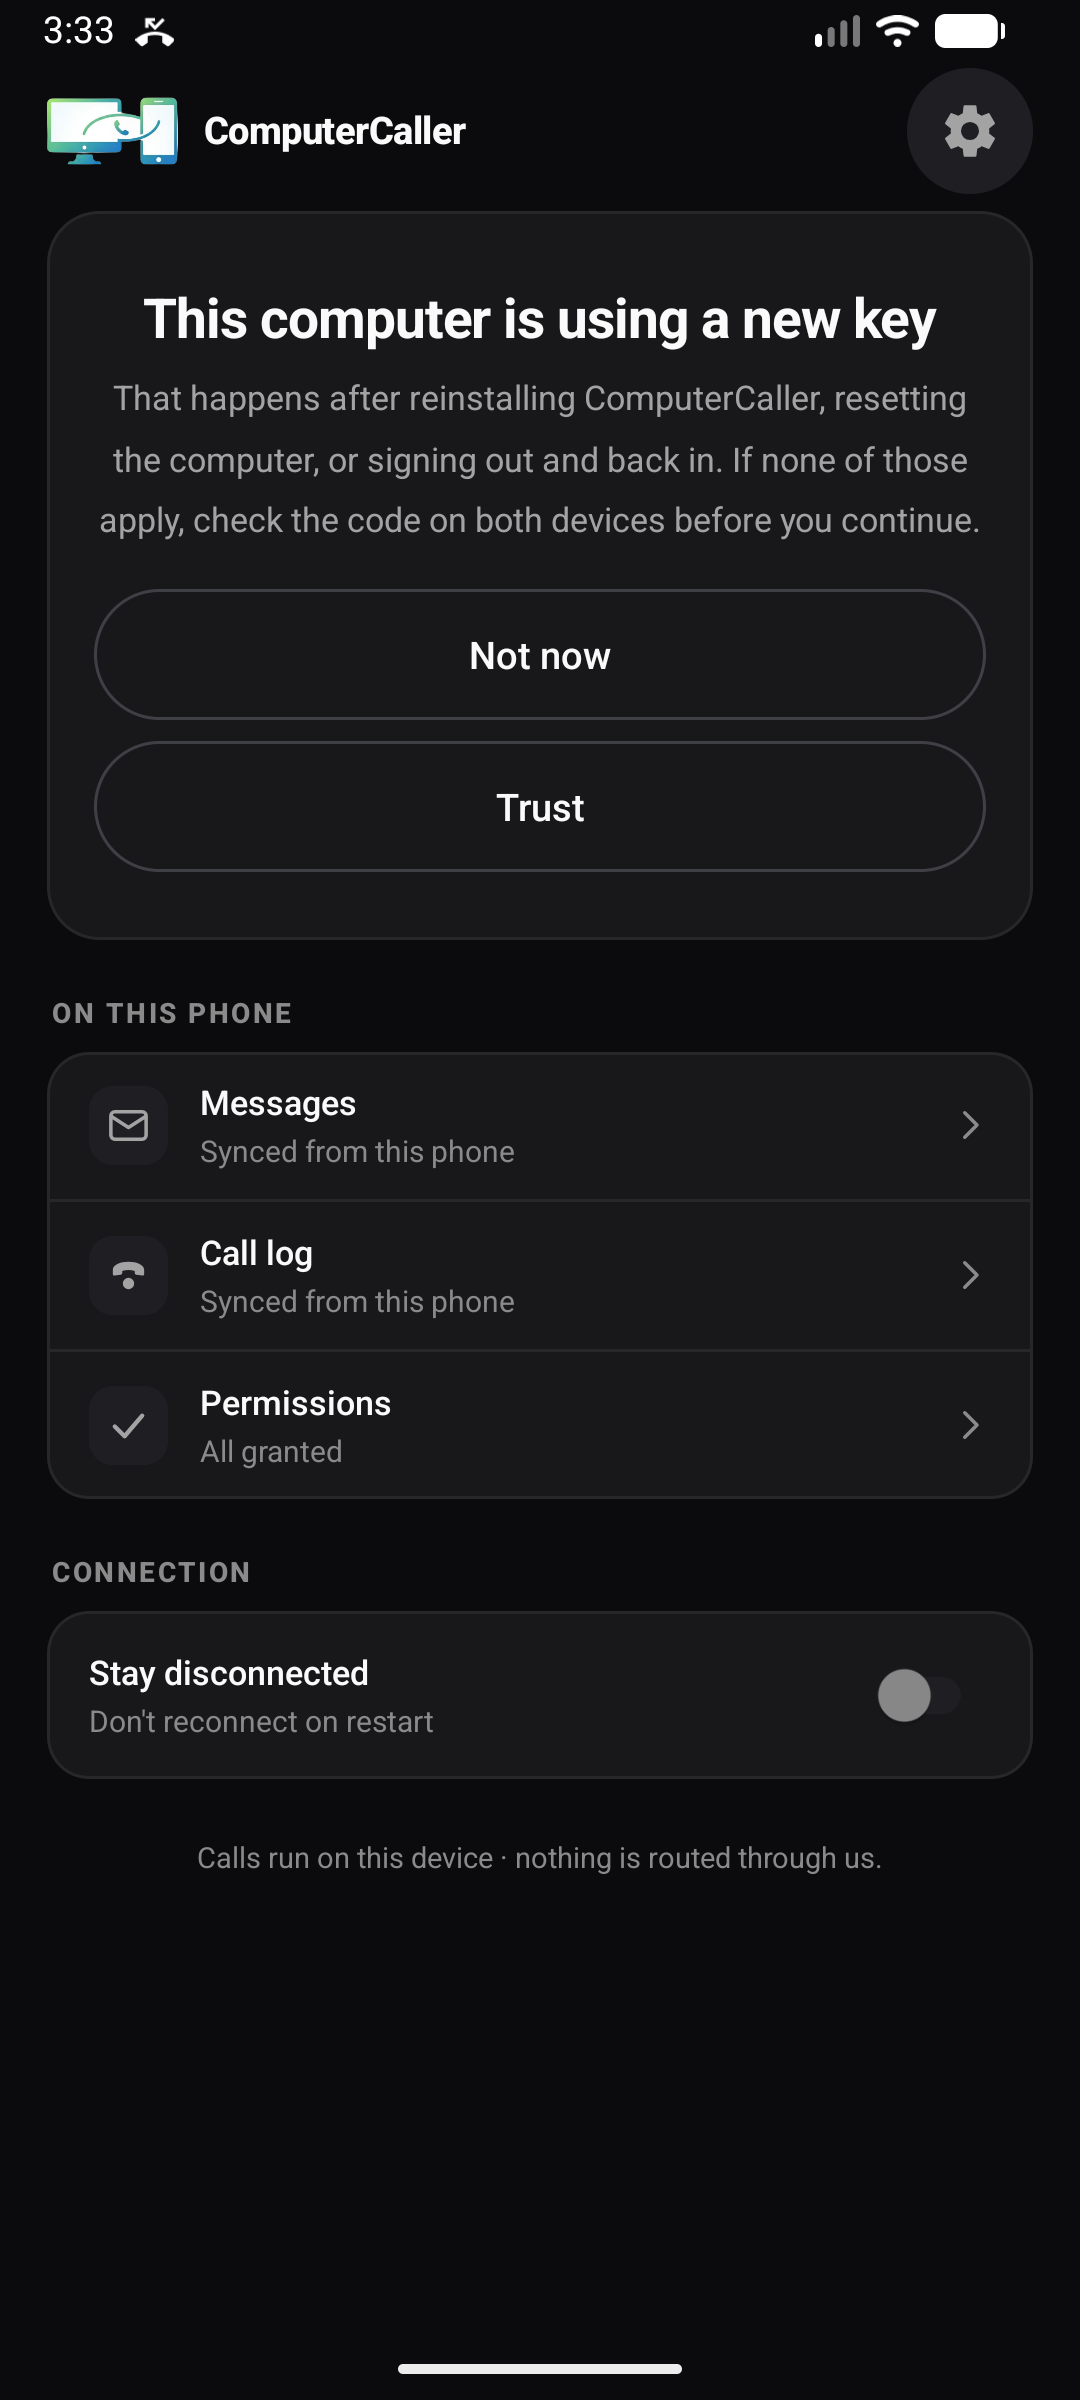
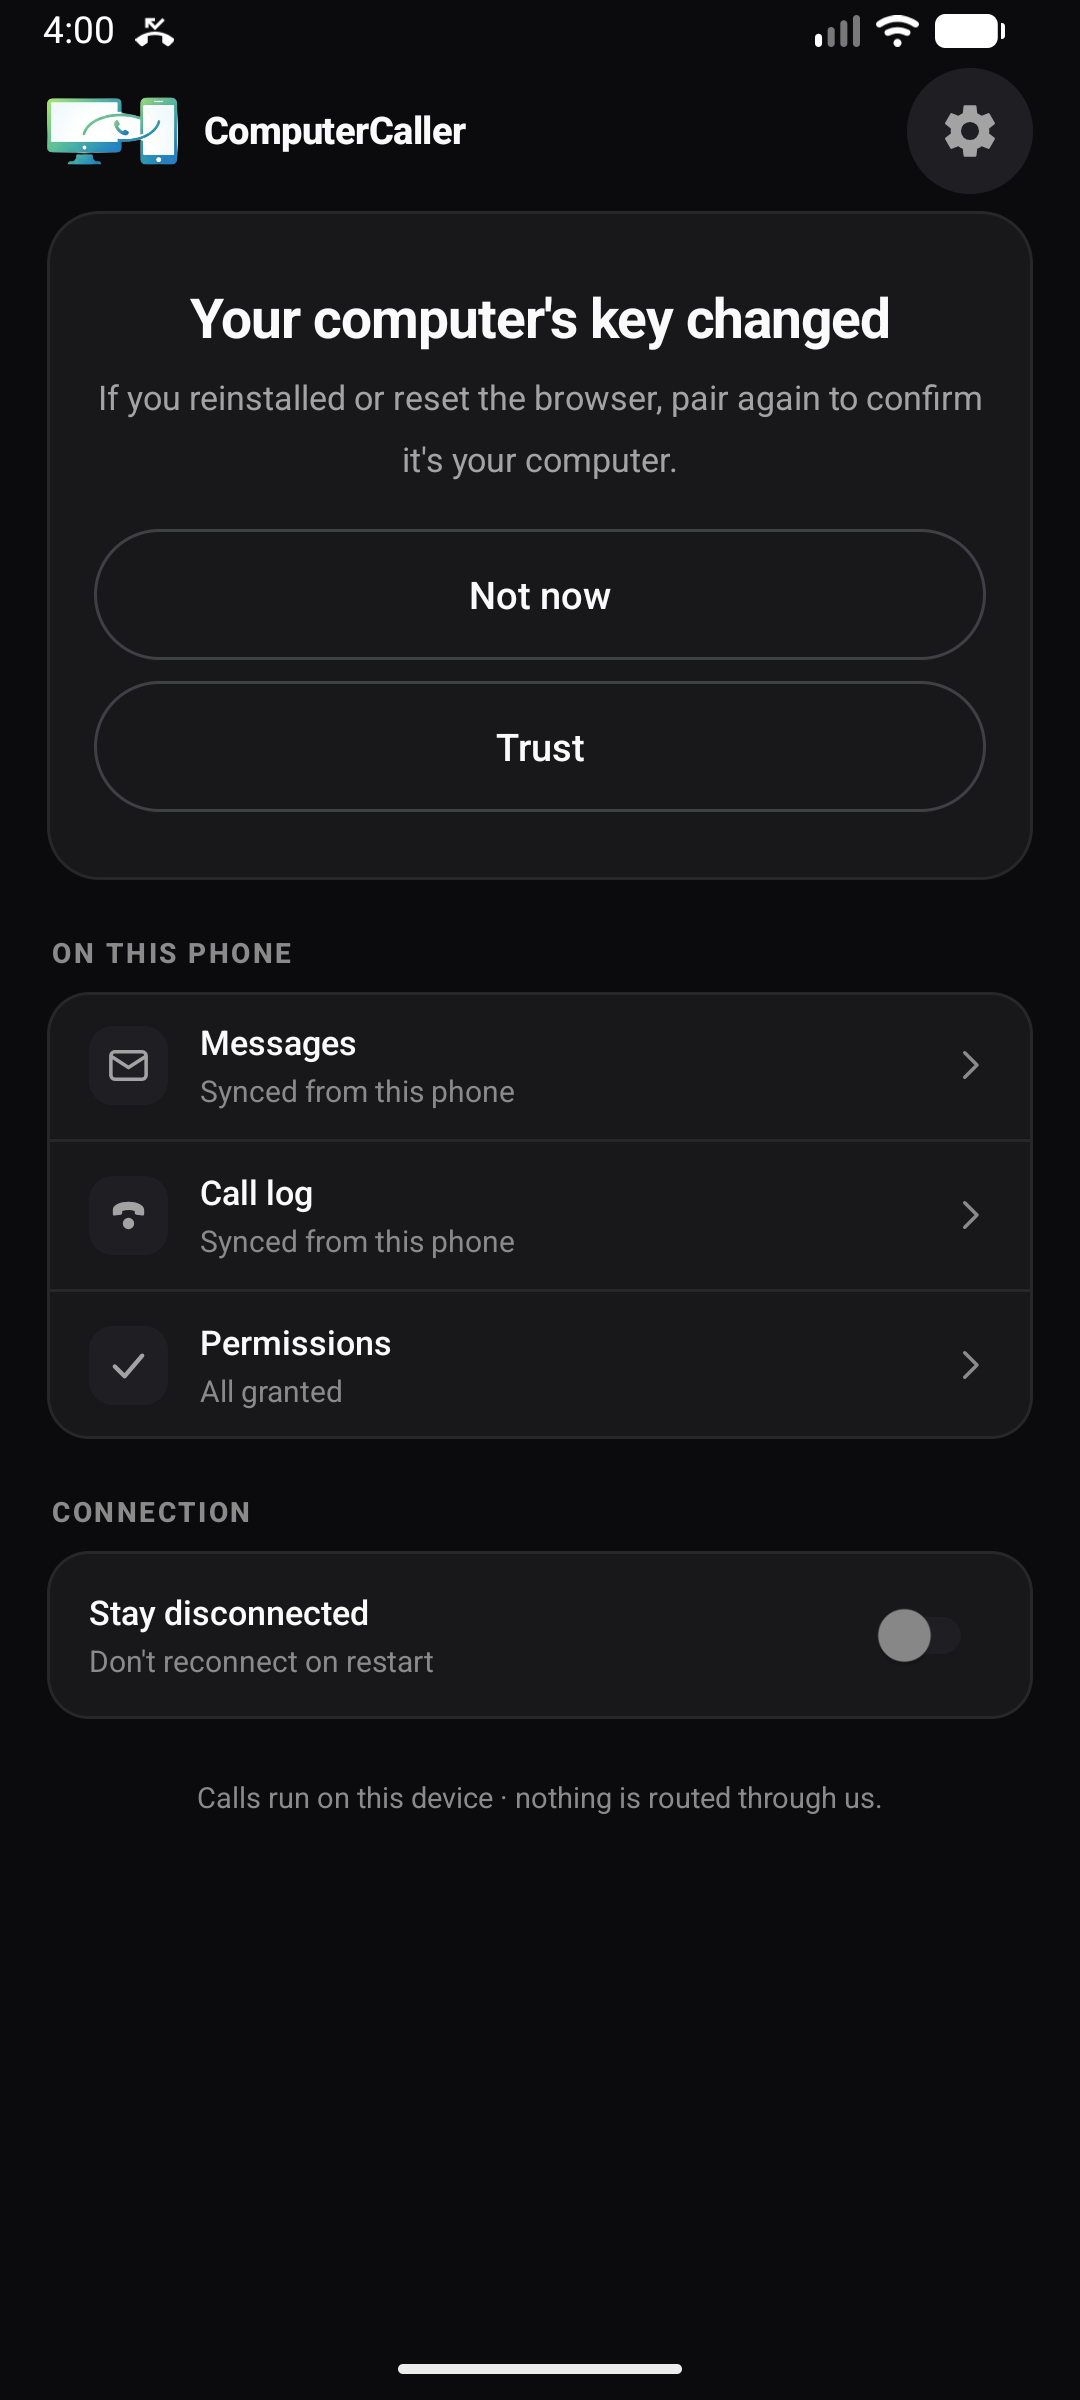
[E2E-P5b] d3 — R-AH: the SAS is FIVE digits, and the frozen P5a copy
Ken's correction, and the brief was wrong rather than ambiguous. E2E-SPEC
§13.3 is FROZEN at "digits = be32(...) mod 100000, zero-padded to 5" — five.
The brief said six, this UI believed the brief, and nothing caught it: every
crypto test asserts E2eSas.digits() against the frozen vectors, and none of
them looks at what the screen shows. A UI that restates a frozen number is a
second home for that number, and the display is precisely where being wrong
is invisible to the tests that would otherwise catch it.

So the count now has ONE home. E2eSas.DIGIT_LENGTH (already 5, already
correct) loses its `private` and E2eSasContract.SAS_DIGIT_COUNT is assigned
from it. That visibility change is the single line I touched outside the UI
layer, and it exists so this class of bug cannot recur. Grouping follows:
"41290" -> "412 90".

Frozen copy parity with P5a-UI:
  * TOFU title/body are now P5a's sentence pointed the other way — "Your
    computer's key changed" / "If you reinstalled or reset the browser, pair
    again to confirm it's your computer." M-C still holds and is still
    asserted: it names benign causes, asserts none, and the remedy it offers
    is to PAIR AGAIN and confirm rather than to click past the warning.
  * the SAS body says "five-digit".

THREE state words, not two. The earlier cut collapsed verified and unverified
into one "Encrypted" on the grounds the distinction was not actionable in the
[…]

diff --git a/dnkdialer-android/app/src/test/java/com/dnkdialer/companion/E2eCopyTableTest.kt b/dnkdialer-android/app/src/test/java/com/dnkdialer/companion/E2eCopyTableTest.kt
@@ -53,8 +53,10 @@ class E2eCopyTableTest {
         "e2e_key_change_trust",
         "e2e_key_change_not_now",
         "status_connected_encrypted",
+        "status_connected_encrypted_unverified",
         "status_connected_unencrypted",
         "notif_ongoing_connected_encrypted",
+        "notif_ongoing_connected_encrypted_unverified",
     )
 
     @Test
@@ -109,12 +111,22 @@ class E2eCopyTableTest {
         // phone?". Same question, other direction.
         assertEquals("Same code on your computer?", prompt)
         assertEquals("Matches", strings.getValue("e2e_sas_matches"))
-        assertEquals("Doesn't match", strings.getValue("e2e_sas_no_match").replace("\\'", "'"))
+        assertEquals("Doesn't match", strings.getValue("e2e_sas_no_match"))
     }
 
     @Test
-    fun the_key_change_warning_lists_benign_causes_without_asserting_one() {
+    fun the_key_change_warning_is_the_frozen_copy_and_asserts_no_cause() {
+        // FROZEN, parity with P5a-UI (Ken R-AH). P5a says "Your phone's key
+        // changed"; this is the same sentence pointed the other way.
+        assertEquals(
+            "Your computer's key changed",
+            strings.getValue("e2e_key_change_title")
+        )
         val body = strings.getValue("e2e_key_change_body")
+        assertEquals(
+            "If you reinstalled or reset the browser, pair again to confirm it's your computer.",
+            body
+        )
         // M-C: the phone cannot tell a reinstall from a substitution, so the
         // copy must not claim it can. A confident "this is just a reinstall"
         // trains users straight through a real attack.
@@ -122,24 +134,48 @@ class E2eCopyTableTest {
             "the warning must not assert a cause it cannot know",
             body.contains("this is just", true) || body.contains("don't worry", true)
         )
-        for (cause in listOf("reinstall", "sign", "reset")) {
+        for (cause in listOf("reinstall", "reset")) {
             assertTrue("benign cause '$cause' missing from the warning", body.contains(cause, true))
         }
+        // The remedy must be to CHECK, not to click past it.
+        assertTrue("the warning must send the user to pair again", body.contains("pair again", true))
         assertEquals("Trust", strings.getValue("e2e_key_change_trust"))
         assertEquals("Not now", strings.getValue("e2e_key_change_not_now"))
     }
 
     @Test
-    fun encrypted_state_exists_as_words_not_only_as_a_colour() {
-        assertTrue(strings.getValue("status_connected_encrypted").contains("Encrypted", true))
+    fun the_three_frozen_state_words_are_present_and_distinct() {
+        // P5a parity (Ken R-AH): "Encrypted" / "Encrypted, unverified" /
+        // "Not encrypted". THREE words, not two — sealed-but-unverified means
+        // nobody confirmed a code, and calling that plain "Encrypted" claims a
+        // verification that did not happen.
+        val verified = strings.getValue("status_connected_encrypted")
+        val unverified = strings.getValue("status_connected_encrypted_unverified")
+        val plaintext = strings.getValue("status_connected_unencrypted")
+        assertTrue(verified.contains("Encrypted", true))
+        assertTrue(unverified.contains("Encrypted, unverified", true))
+        assertTrue(plaintext.contains("Not encrypted", true))
+        assertEquals("the three states must be three strings", 3, setOf(verified, unverified, plaintext).size)
+        // The shade must agree with the line, or the user has a contradiction
+        // they cannot resolve from the surface they see when the app is closed.
         assertTrue(
             strings.getValue("notif_ongoing_connected_encrypted").contains("Encrypted", true)
         )
-        // The unencrypted state must be nameable too — "Connected" with a grey
-        // dot and no word is the state a user misreads as safe.
         assertTrue(
-            strings.getValue("status_connected_unencrypted").contains("Not encrypted", true)
+            strings.getValue("notif_ongoing_connected_encrypted_unverified")
+                .contains("Encrypted, unverified", true)
         )
+    }
+
+    @Test
+    fun the_sas_copy_says_five_digits_because_the_spec_freezes_five() {
+        // §13.3: "mod 100000, zero-padded to 5". The P5b brief said six and
+        // the first cut of this UI believed it.
+        assertTrue(
+            "the SAS body must not promise a digit count the spec does not freeze",
+            strings.getValue("e2e_sas_body").contains("five-digit", true)
+        )
+        assertFalse(strings.getValue("e2e_sas_body").contains("six", true))
     }
 
     /**
@@ -154,6 +190,19 @@ class E2eCopyTableTest {
         val text = f.readText()
         return Regex("""<string name="([^"]+)"[^>]*>(.*?)</string>""", RegexOption.DOT_MATCHES_ALL)
             .findAll(text)
-            .associate { it.groupValues[1] to it.groupValues[2].trim() }
+            .associate { it.groupValues[1] to unescape(it.groupValues[2].trim()) }
     }
+
+    /**
+     * Undo strings.xml's own escaping once, here, so no assertion has to.
+     *
+     * A backslash-apostrophe is how a resource file spells an apostrophe (aapt
+     * rejects a bare
+     * one), which is a property of the FILE FORMAT and not of the copy. Every
+     * test in this class is about what the user reads, so the escape is noise
+     * — and leaving it in means each assertion carries its own un-escaping,
+     * which is exactly where one of them gets it wrong.
+     */
+    private fun unescape(raw: String): String =
+        raw.replace(Regex("""\\(['"])"""), "$1")
 }

diff --git a/dnkdialer-android/app/src/main/java/com/dnkdialer/companion/E2eStatusCopy.kt b/dnkdialer-android/app/src/main/java/com/dnkdialer/companion/E2eStatusCopy.kt
@@ -63,10 +63,14 @@ object E2eStatusCopy {
     @JvmStatic
     @StringRes
     fun statusLine(state: State): Int = when (state) {
-        // Verified and unverified share the in-app word deliberately: both
-        // are encrypted, and the status line is not where the distinction is
-        // actionable. The badge carries it.
-        State.ENCRYPTED_VERIFIED, State.ENCRYPTED_UNVERIFIED -> R.string.status_connected_encrypted
+        // Three frozen words, not two (P5a parity, Ken R-AH). An earlier cut
+        // collapsed verified and unverified into one "Encrypted" on the
+        // grounds that the distinction was not actionable in the line. It is
+        // the opposite: sealed-but-unverified means NOBODY CONFIRMED A CODE,
+        // and saying "Encrypted" flat there claims a verification that did not
+        // happen — the one thing the SAS exists to make honest.
+        State.ENCRYPTED_VERIFIED -> R.string.status_connected_encrypted
+        State.ENCRYPTED_UNVERIFIED -> R.string.status_connected_encrypted_unverified
         State.PLAINTEXT -> R.string.status_connected_unencrypted
     }
 
@@ -74,8 +78,8 @@ object E2eStatusCopy {
     @JvmStatic
     @StringRes
     fun notificationText(state: State): Int = when (state) {
-        State.ENCRYPTED_VERIFIED, State.ENCRYPTED_UNVERIFIED ->
-            R.string.notif_ongoing_connected_encrypted
+        State.ENCRYPTED_VERIFIED -> R.string.notif_ongoing_connected_encrypted
+        State.ENCRYPTED_UNVERIFIED -> R.string.notif_ongoing_connected_encrypted_unverified
         // Unchanged from today. The shade's plaintext wording is the one the
         // user already knows, and P5b is not the place to renegotiate it.
         State.PLAINTEXT -> R.string.notif_ongoing_connected

diff --git a/dnkdialer-android/app/src/androidTest/java/com/dnkdialer/companion/E2eKeyChangeUiTest.kt b/dnkdialer-android/app/src/androidTest/java/com/dnkdialer/companion/E2eKeyChangeUiTest.kt
@@ -61,9 +61,11 @@ class E2eKeyChangeUiTest {
                 "the warning asserts a cause it cannot know",
                 body.contains("this is just", true) || body.contains("don't worry", true)
             )
-            for (cause in listOf("reinstall", "reset", "sign")) {
+            for (cause in listOf("reinstall", "reset")) {
                 assertTrue("benign cause '$cause' missing", body.contains(cause, true))
             }
+            // The remedy is to CHECK, not to click past the warning.
+            assertTrue("must send the user to pair again", body.contains("pair again", true))
             assertEquals(
                 ctx.getString(R.string.e2e_key_change_title),
                 activity.findViewById<TextView>(R.id.homeKeyChangeTitle).text.toString()
@@ -155,8 +157,12 @@ class E2eKeyChangeUiTest {
         val plaintext = ctx.getString(
             E2eStatusCopy.statusLine(E2eStatusCopy.State.PLAINTEXT)
         )
+        // Three frozen words (P5a parity, R-AH), not two: sealed-but-unverified
+        // means nobody confirmed a code, and calling it plain "Encrypted"
+        // claims a verification that did not happen.
         assertTrue(encrypted.contains("Encrypted", true))
-        assertEquals("both sealed states read as Encrypted in the line", encrypted, unverified)
+        assertTrue(unverified.contains("Encrypted, unverified", true))
+        assertFalse("unverified must not read as plain Encrypted", encrypted == unverified)
         assertTrue(
             "the unencrypted state must be NAMED — a bare \"Connected\" is what " +
                 "users read as safe",

diff --git a/dnkdialer-android/app/src/main/java/com/dnkdialer/companion/E2eSasContract.kt b/dnkdialer-android/app/src/main/java/com/dnkdialer/companion/E2eSasContract.kt
@@ -70,11 +70,16 @@ object E2eSasContract {
     /** true = "Matches", false = "Doesn't match". Absent must be read as false. */
     const val EXTRA_SAS_MATCHED = "e2e_sas_matched"
 
-    /** §13.3 — six decimal digits, so the UI can reject a malformed payload. */
-    const val SAS_DIGIT_COUNT = 6
+    /**
+     * §13.3's digit count, taken FROM the frozen implementation rather than
+     * restated here. It is 5 ("mod 100000, zero-padded to 5"); the P5b brief
+     * said 6 and this file believed it, which is precisely why the number now
+     * has exactly one home.
+     */
+    const val SAS_DIGIT_COUNT = E2eSas.DIGIT_LENGTH
 
     /**
-     * Group the digits for display and for TalkBack: "412908" → "412 908".
+     * Group the digits for display and for TalkBack: "41290" → "412 90".
      *
      * One function, used for BOTH the visible text and the spoken description,
      * so the two can never drift — and because an ungrouped run of six digits
@@ -82,7 +87,7 @@ object E2eSasContract {
      * which cannot be checked against a screen. Grouping is what makes the
      * code confirmable, so it is part of the security feature and not styling.
      *
-     * Returns the input unchanged when it is not exactly six digits; the
+     * Returns the input unchanged when it is not exactly five digits; the
      * caller is expected to have refused such a payload already.
      */
     @JvmStatic

diff --git a/dnkdialer-android/app/src/androidTest/java/com/dnkdialer/companion/E2eSasConfirmUiTest.kt b/dnkdialer-android/app/src/androidTest/java/com/dnkdialer/companion/E2eSasConfirmUiTest.kt
@@ -51,8 +51,8 @@ class E2eSasConfirmUiTest {
 
     private companion object {
         const val PAIRING_ID = "sas-ui-test-pairing"
-        const val DIGITS = "412908"
-        const val GROUPED = "412 908"
+        const val DIGITS = "41290"
+        const val GROUPED = "412 90"
     }
 
     @Before
@@ -70,7 +70,7 @@ class E2eSasConfirmUiTest {
         withSasShowing { activity ->
             val code = activity.findViewById<TextView>(R.id.homeSasCode)
             assertEquals(
-                "six ungrouped digits cannot be compared against a screen",
+                "ungrouped digits cannot be compared against a screen",
                 GROUPED, code.text.toString()
             )
             val spoken = code.contentDescription?.toString().orEmpty()
@@ -154,7 +154,7 @@ class E2eSasConfirmUiTest {
 
     @Test
     fun a_malformed_payload_is_refused_not_rendered() {
-        for (bad in listOf("", "41290", "4129081", "41290x", "abcdef")) {
+        for (bad in listOf("", "4129", "412908", "4129x", "abcde")) {
             val answer = captureVerdict {
                 withHome { scenario ->
                     sendSasRequired(bad)

diff --git a/dnkdialer-android/app/src/androidTest/java/com/dnkdialer/companion/E2eP5bScreenshots.kt b/dnkdialer-android/app/src/androidTest/java/com/dnkdialer/companion/E2eP5bScreenshots.kt
@@ -72,13 +72,13 @@ class E2eP5bScreenshots {
                 broadcast(
                     Intent(E2eSasContract.ACTION_E2E_SAS_REQUIRED)
                         .putExtra(PhoneService.EXTRA_PAIRING_ID, "shot-sas")
-                        .putExtra(E2eSasContract.EXTRA_SAS_DIGITS, "412908")
+                        .putExtra(E2eSasContract.EXTRA_SAS_DIGITS, "41290")
                 )
                 scenario.onActivity { activity ->
                     val shown = CopyRules.visibleText(activity.window.decorView)
                     assertTrue(
                         "the SAS face is not on screen for the $suffix capture: $shown",
-                        shown.any { it.contains("412 908") }
+                        shown.any { it.contains("412 90") }
                     )
                     assertTrue(shown.any { it == "Same code on your computer?" })
                     CopyRules.assertNoEndToEndClaim(activity.window.decorView)

diff --git a/dnkdialer-android/app/src/main/java/com/dnkdialer/companion/E2eSas.kt b/dnkdialer-android/app/src/main/java/com/dnkdialer/companion/E2eSas.kt
@@ -61,7 +61,16 @@ object E2eSas {
     const val INFO = "cc-sas-v1"
 
     private const val DIGIT_MODULUS = 100000
-    private const val DIGIT_LENGTH = 5
+    /**
+     * Frozen at 5 by E2E-SPEC §13.3 ("mod 100000, zero-padded to 5").
+     *
+     * Visible (was private) so the SAS UI can source the count from the frozen
+     * implementation instead of restating it. P5b's first cut hardcoded 6 from
+     * the brief and nothing caught it: a UI that repeats a frozen number is a
+     * second place for that number to be wrong, and the display is exactly
+     * where being wrong is invisible to every crypto test.
+     */
+    const val DIGIT_LENGTH = 5
 
     /** Bytes of OKM the digits are taken from. Four — `be32`, then mod. */
     private const val OKM_BYTES = 4
